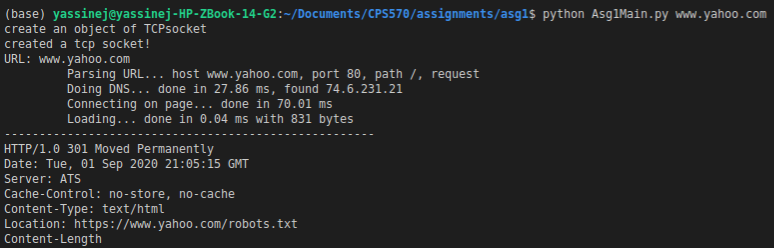
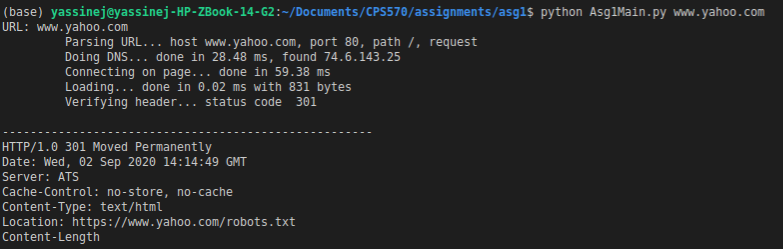
Added verification header and wrapped fcts in crawl

Changed region(s): [[0.0, 0.0282, 0.9922, 0.9879]]

diff --git a/assignments/asg1/Asg1Main.py b/assignments/asg1/Asg1Main.py
@@ -5,7 +5,7 @@ Team Members:
 '''
 
 # import libraries or classes
-import validators # source: https://validators.readthedocs.io/en/latest/#
+# import validators # source: https://validators.readthedocs.io/en/latest/#
 import sys
 # from urllib.parse import urlparse # source: https://docs.python.org/3/library/urllib.parse.html 
 from Asg1Socket import TCPsocket
@@ -20,7 +20,6 @@ from Asg1Urlparser import URLparser
 def main(): # function, method are the same
 
     mysocket = TCPsocket() # create an object of TCP socket
-    mysocket.createSocket()
     myrequest = Request()
     myparser  = URLparser()
     
@@ -29,16 +28,15 @@ def main(): # function, method are the same
     
     print('URL: {}'.format(URL))
     print('         Parsing URL... host {}, port {}, path {}, request {}'.format(host, port, path, query))
-    getIpInfo = mysocket.getIP(host)
-    myIp = getIpInfo[0]
-    print('         Doing DNS... done in {} ms, found {}'.format(round(getIpInfo[1],2), myIp))
     # TODO: For politeness, the code will need to hit only unique IPs (Check if the ip is unique)
     # TODO: Abort all pages that takes longer than 10 secs or are more than 2MB
-    mysocket.connect(myIp, port)
     
     msg = myrequest.headRequest(host) # build our request
-    mysocket.send(msg) # send out request
-    data = mysocket.receive() # receive a reply from the server
+    data = mysocket.crawl(host, port, msg)
+    idx = data.find('HTTP/1.0')
+    if idx != -1:
+        statusCode = data[idx+8:idx+13]
+        sys.stdout.write("status code {}\n".format(statusCode))
 
     if len(data) != 0:
         myrequest.cleanStr(data) 

diff --git a/assignments/asg1/Asg1Socket.py b/assignments/asg1/Asg1Socket.py
@@ -17,12 +17,12 @@ class TCPsocket:
     def __init__(self):
         self.sock = None  # each object's instance variables
         self.host = ""  # remote host name
-        print("create an object of TCPsocket")
+        # print("create an object of TCPsocket")
 
     def createSocket(self):
         try:
             self.sock = socket.socket(socket.AF_INET, socket.SOCK_STREAM)  # self.sock is an instance variable
-            print("created a tcp socket!")
+            # print("created a tcp socket!")
         except socket.error as e:
             print("Failed to create a TCP socket {}".format(e))
             self.sock = None
@@ -98,6 +98,7 @@ class TCPsocket:
             rcv_end  = time.time()
             rcv_time = (rcv_end - rcv_start) * 1000 # in ms 
             sys.stdout.write('done in {} ms with {} bytes'.format(round(rcv_time,2), bytesRecd) + '\n')
+            sys.stdout.write("         Verifying header... ")
         except socket.error as e:
             print("socket error in receive: {}".format(e))
             self.sock.close()
@@ -110,3 +111,12 @@ class TCPsocket:
             self.sock.close()
 
 
+    def crawl(self, host, port, msg):
+        self.createSocket()
+        getIpInfo = self.getIP(host)
+        myIp = getIpInfo[0]
+        print('         Doing DNS... done in {} ms, found {}'.format(round(getIpInfo[1],2), myIp))
+        self.connect(myIp, port)
+        self.send(msg)
+        reply = self.receive()
+        return reply

diff --git a/assignments/asg1/Asg1Request.py b/assignments/asg1/Asg1Request.py
@@ -5,6 +5,8 @@ Team Members:
     Akpan, Samuel Cyril  
 '''
 
+import sys
+
 class Request:
     def __init__(self):
         self.request = ''    # a string
